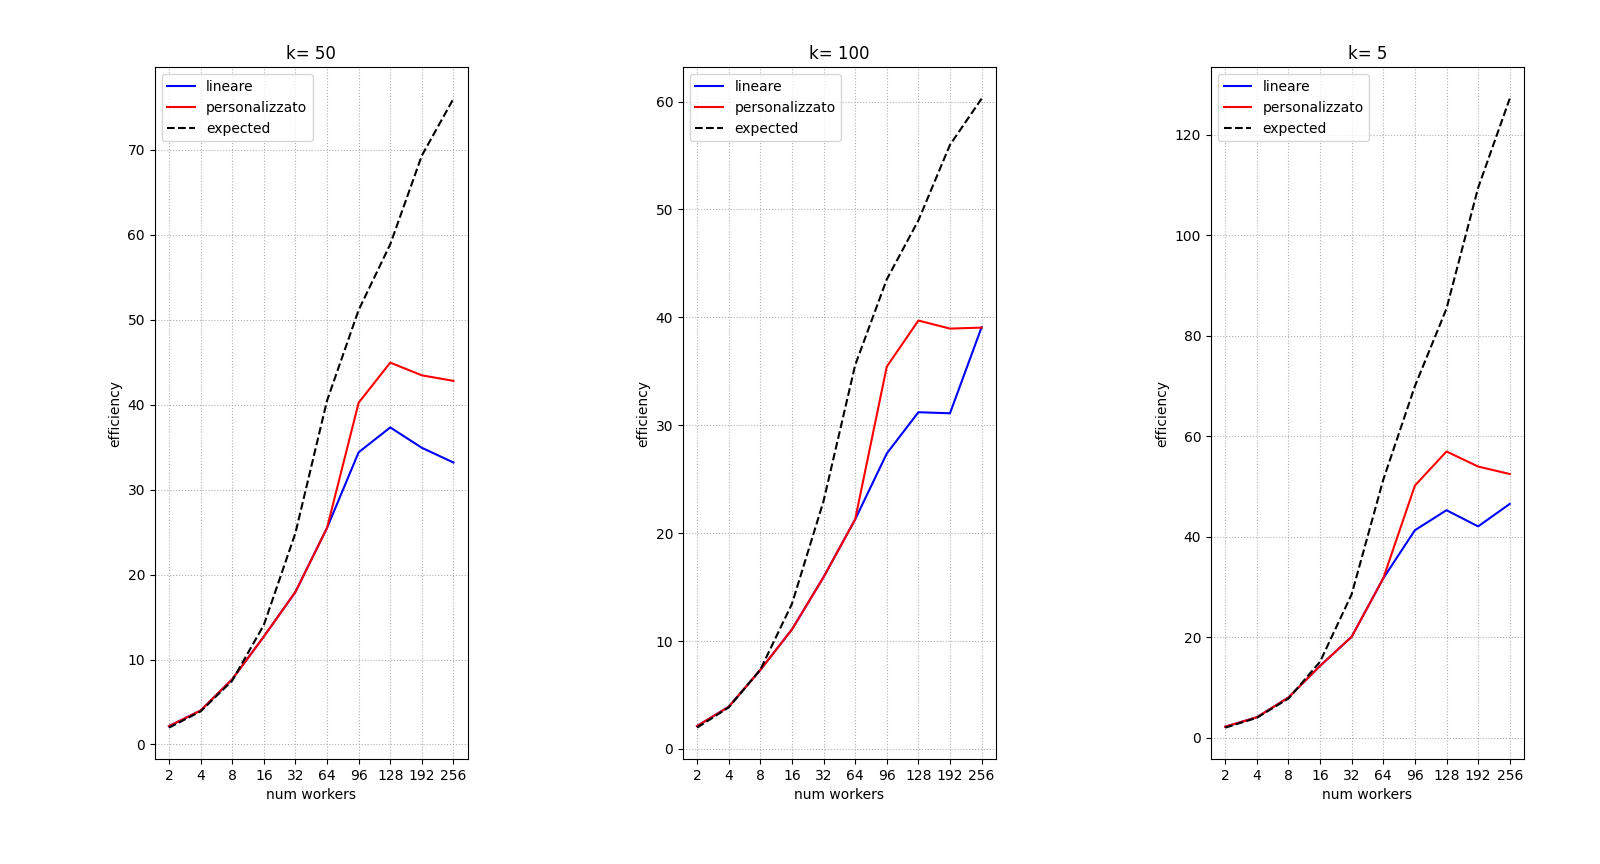
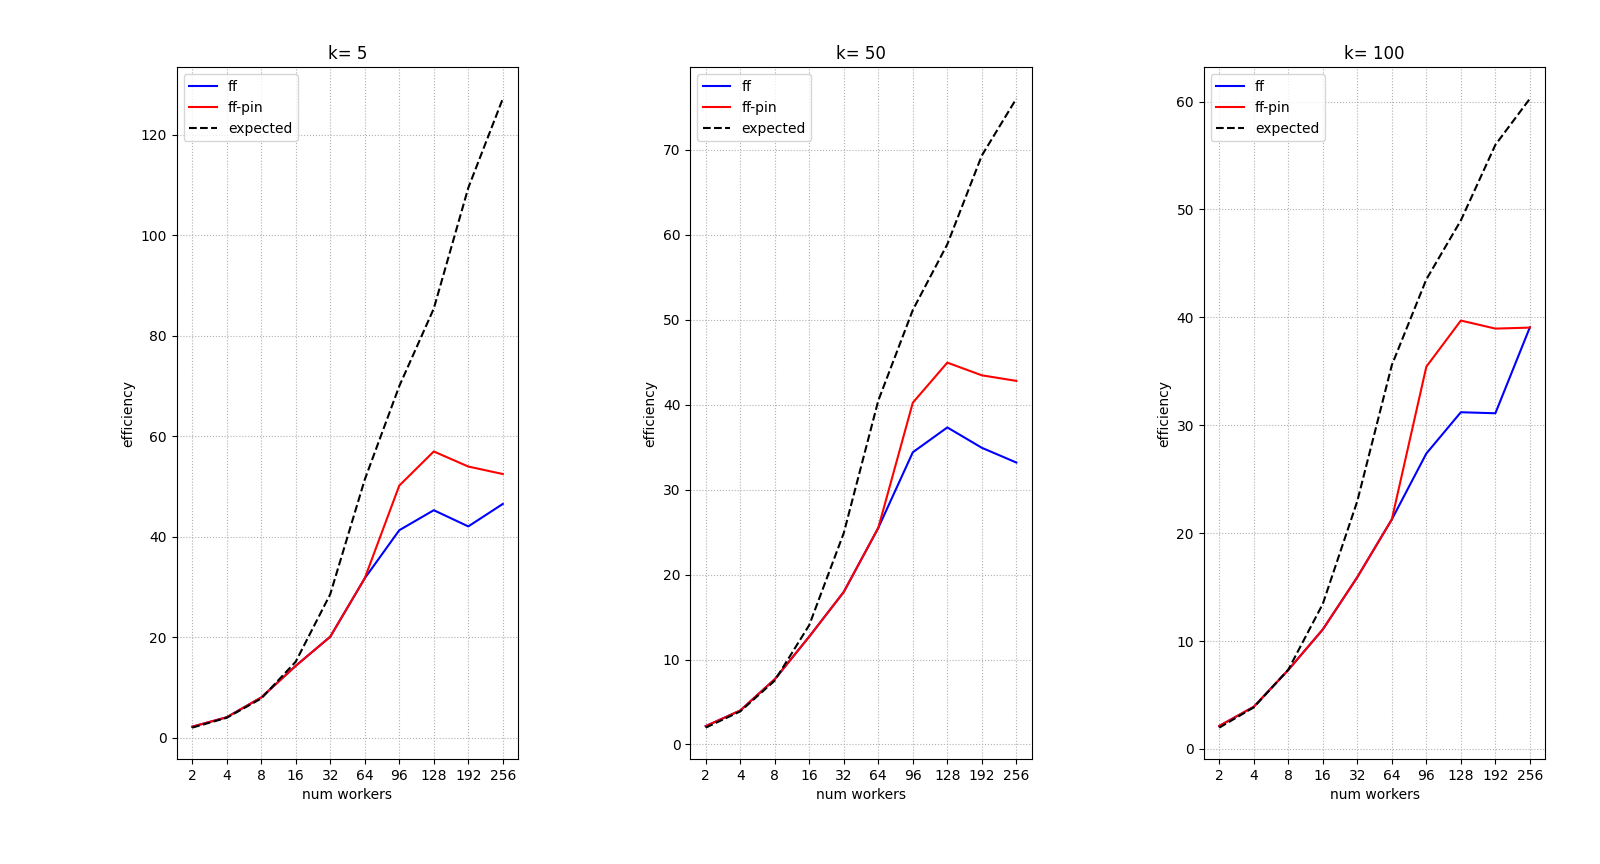
final commit

diff --git a/plot.py b/plot.py
@@ -94,7 +94,7 @@ for size in sizes:
             ax.plot(list(files_dicts[1].keys()), expected,
                     label='expected', color='black', linestyle='dashed')
         plt.xlabel('num workers')
-        plt.ylabel('efficiency')
+        plt.ylabel('speedup')
         plt.legend(loc='upper left')
         plt.tight_layout()
     plt.show()

diff --git a/sequential.cpp b/sequential.cpp
@@ -5,7 +5,6 @@
 #include <sstream>
 #include <vector>
 #include <tuple>
-#include <queue>
 #include <math.h> 
 #include <float.h>
 #include <map>

diff --git a/README.md b/README.md
@@ -1,0 +1,10 @@
+# Parallel Knn
+
+The repo contains a `C++` implementation of the KNN algorithm. There are four different implementations: 
+- `parallel.cpp`: is a parallel implementation using only `pthread`. Input format: the value of `K`, the number of threads to use, the input file name, the output file name.  
+- `ff_parallel`: is a parallel implementation consisting of a Master/Worker using the `FastFlow` library. Input format: the value of `K`, the number of threads to use, the input file name, the output file name, `y` if you want to use the custom thread pinning (is an adhoc implementation for the machine used during the experiments). 
+- `ff_parallel_for`: is a parallel implementation consisting of a parallel for reduce using the `FastFlow` library.
+- `sequential`: is the sequential version of the KNN. Input format: the value of `K`, the input file name, the output file name.
+
+In the `experiments` directory there are all the execution times computed during the experiments.\
+In the `plot` directory there are plots of the speedup, efficiency and scalability.
